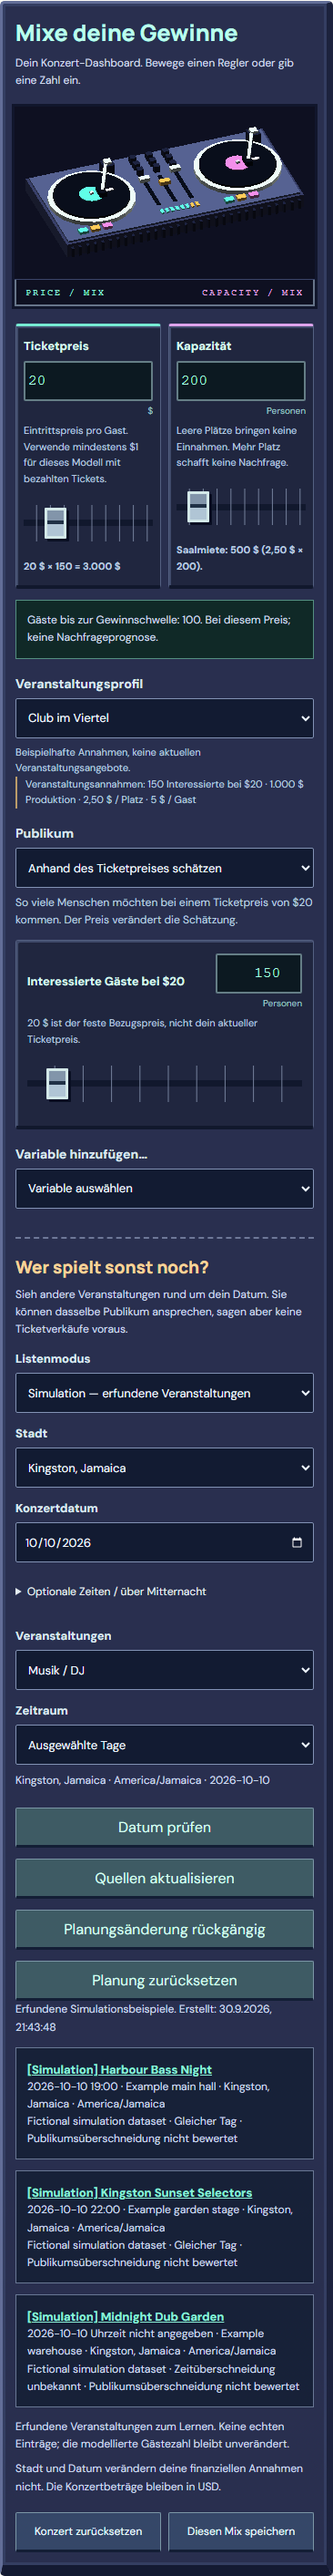
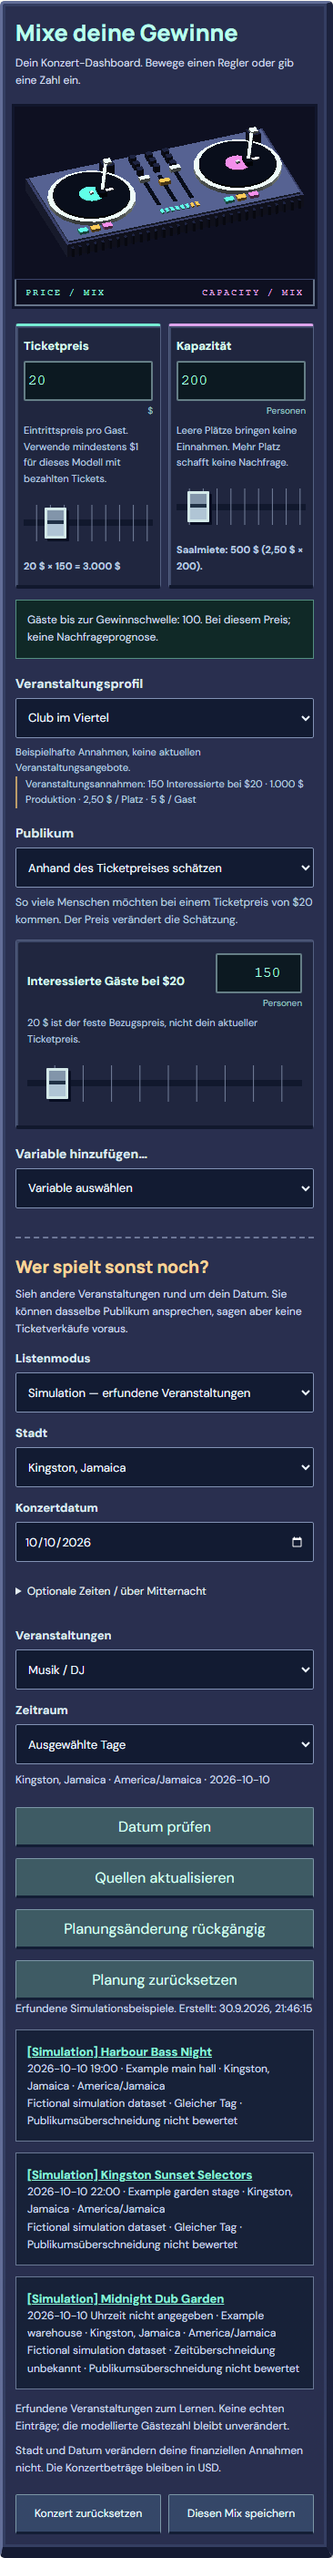
Record hosted turntable and n8n planning verification

diff --git a/docs/ADDENDUM-04-VALIDATION.md b/docs/ADDENDUM-04-VALIDATION.md
@@ -56,3 +56,12 @@ Server-only `N8N_EVENTS_WEBHOOK_URL` must point to `https://amdrfound.app.n8n.cl
 Rollback application to `7aa38f4` through Railway; its original coach contract remains supported. To roll back coach canvas, use the sanitized before export and reselect existing credential references, then publish. Deactivate the added events workflow only after the app no longer calls it.
 
 No new hosting project/account was created. Competition submission stays manual; the final submission video is still the last step.
+
+## Final release status
+
+Implemented locally, workflow artifacts prepared, actual canvases updated, both workflows published/active, Railway deployed, and hosted end-to-end verified. Application commit: `27c5bd2`. Railway deployment `089dd597-8d8f-4e2f-8b67-19e3d3268ed1`: SUCCESS.
+
+Hosted simulation checks reached n8n executions 3699 (Atlanta), 3700 (Berlin), and 3701 (Kingston); each returned three fictional cards. Cache and refresh passed. See `hosted-simulation-trace.json`. An additional uncached live-mode check returned a sourced card; its exact request/execution mapping is in `hosted-live-search.json`. Hosted coach returned n8n/OpenAI content with TypeSafe confidence 0.96; speech returned HTTP 200 audio/mpeg. No physical phone/microphone test is claimed.
+
+28 automated tests pass. The separate dashboard runtime asset is 146,512 bytes; Blender source is 138,672 bytes. The protected concert scene remains unchanged. Final competition video and manual submission are not part of this release and remain for the agreed final step.
+
